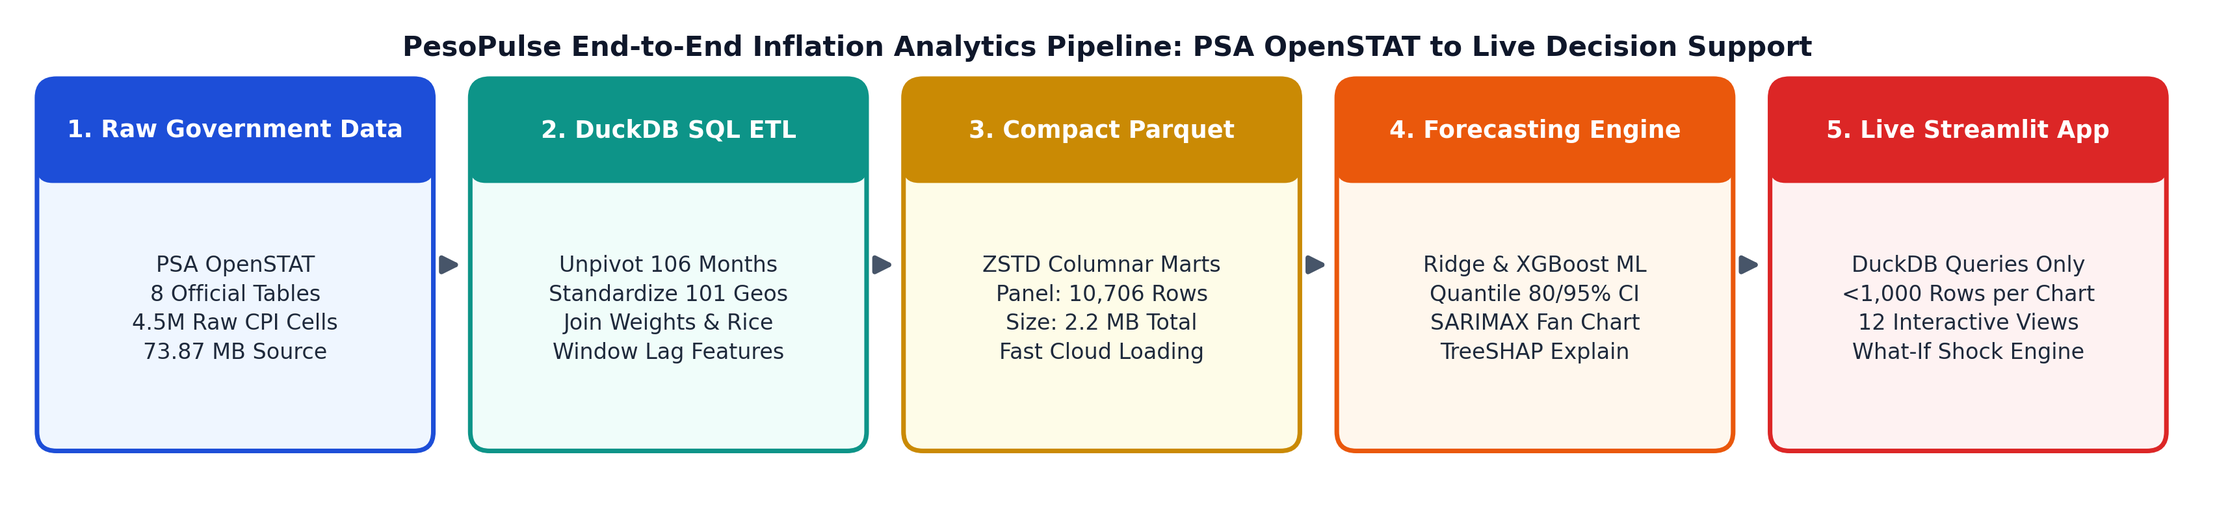
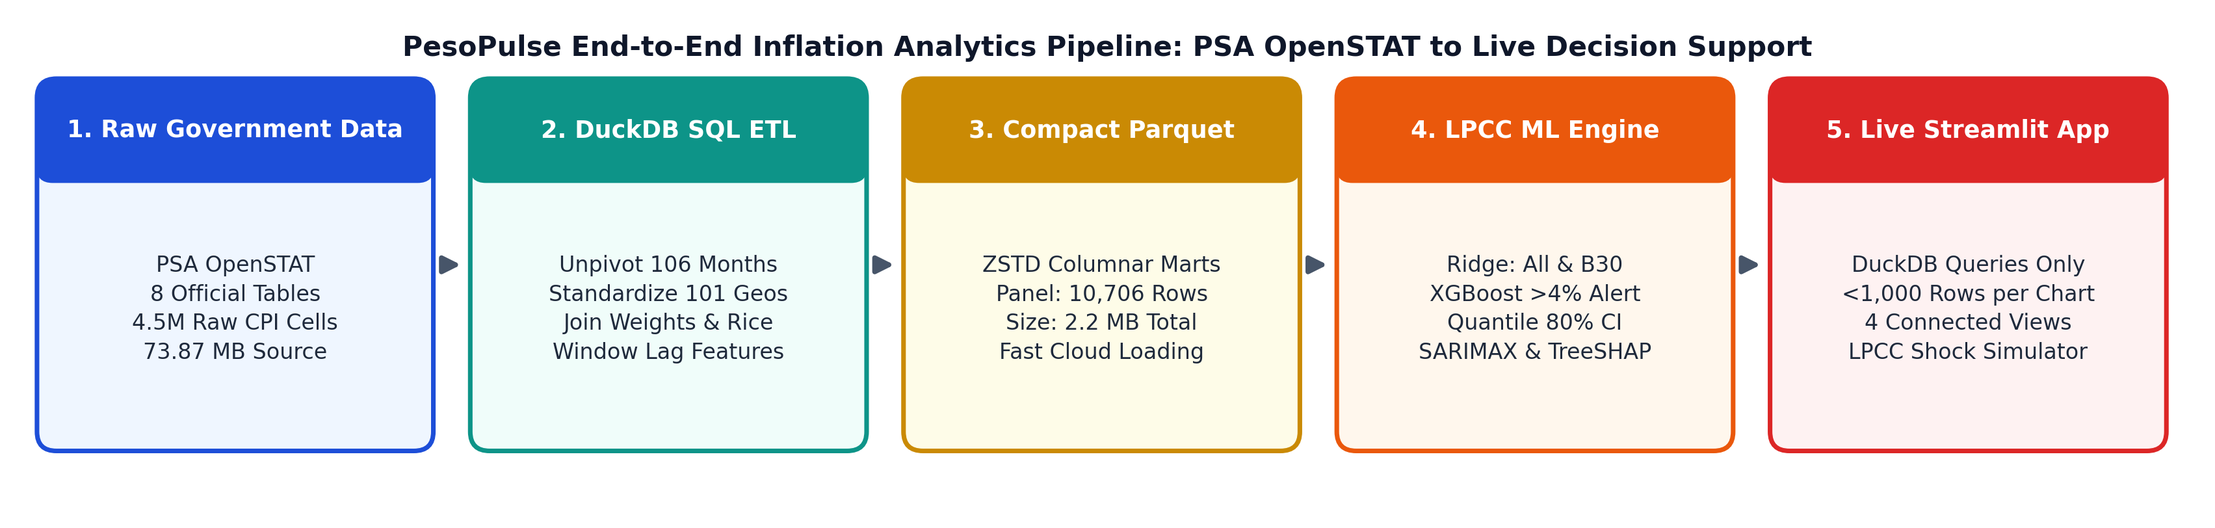
docs(paper): rewrite 6-page IEEE paper builder for DTI/DA LPCC scope

Changed region(s): [[0.6222, 0.4618, 0.7467, 0.6773], [0.84, 0.585, 0.9645, 0.6773], [0.6222, 0.2155, 0.7778, 0.2771]]

diff --git a/src/build_ieee_paper.py b/src/build_ieee_paper.py
@@ -50,8 +50,8 @@ def build_pipeline_diagram(out_path: Path) -> None:
         ("1. Raw Government Data", "PSA OpenSTAT\n8 Official Tables\n4.5M Raw CPI Cells\n73.87 MB Source", "#EFF6FF", "#1D4ED8"),
         ("2. DuckDB SQL ETL", "Unpivot 106 Months\nStandardize 101 Geos\nJoin Weights & Rice\nWindow Lag Features", "#F0FDFA", "#0D9488"),
         ("3. Compact Parquet", "ZSTD Columnar Marts\nPanel: 10,706 Rows\nSize: 2.2 MB Total\nFast Cloud Loading", "#FEFCE8", "#CA8A04"),
-        ("4. Forecasting Engine", "Ridge & XGBoost ML\nQuantile 80/95% CI\nSARIMAX Fan Chart\nTreeSHAP Explain", "#FFF7ED", "#EA580C"),
-        ("5. Live Streamlit App", "DuckDB Queries Only\n<1,000 Rows per Chart\n12 Interactive Views\nWhat-If Shock Engine", "#FEF2F2", "#DC2626"),
+        ("4. LPCC ML Engine", "Ridge: All & B30\nXGBoost >4% Alert\nQuantile 80% CI\nSARIMAX & TreeSHAP", "#FFF7ED", "#EA580C"),
+        ("5. Live Streamlit App", "DuckDB Queries Only\n<1,000 Rows per Chart\n4 Connected Views\nLPCC Shock Simulator", "#FEF2F2", "#DC2626"),
     ]
 
     box_w = 1.92
@@ -583,7 +583,7 @@ def main():
 
     b = IEEEPaperBuilder()
     b.add_ieee_header(
-        title="PesoPulse: Forecasting Philippine Provincial Inflation and Supply-Shock Pass-Through Using DuckDB and Visual Analytics",
+        title="PesoPulse: Forecasting Supply-Shock Pass-Through on Ordinary and Bottom-30% Households for Philippine Local Price Coordinating Councils",
         authors=[
             ("Melbert Marafo", "School of Advanced Studies", "Saint Louis University, Baguio City"),
             ("Jhaynher Felix", "School of Advanced Studies", "Saint Louis University, Baguio City"),
@@ -594,8 +594,8 @@ def main():
     b.switch_columns(2)
 
     b.add_abstract(
-        "A single national inflation number hides very different price realities across Philippine provinces. Families in island and rural areas often face much steeper food costs than shoppers in Metro Manila, and low-income households absorb the hardest hit whenever rice prices jump. We built PesoPulse, an end-to-end visual analytics and forecasting platform using eight official Philippine Statistics Authority datasets covering 101 provinces and highly urbanized cities from January 2018 to October 2026. Our DuckDB pipeline reshapes 4.5 million raw price cells into compact Parquet tables totaling 2.2 MB, feeding a live Streamlit dashboard with twelve interactive charts and a supply-shock simulator. Regional inflation differs significantly at p < 0.001, with Region V averaging 4.39% against 3.41% in NCR. During food spikes above 5%, bottom-30% households face 0.95 percentage points higher inflation than the general population. On 2025 to 2026 holdout data, Ridge Regression delivers the best next-month forecast with 0.93 percentage points MAE and R² of 0.874, while XGBoost flags breaches above the 4.0% central bank ceiling at 92.6% accuracy and 0.976 ROC-AUC.",
-        "Consumer Price Index, DuckDB, Inflation Forecasting, PesoPulse, Philippine Statistics Authority, Streamlit, Visual Analytics.",
+        "When rice, electricity, or diesel prices jump, a single national inflation rate tells local price monitors almost nothing about which towns will suffer most next month. Low-income families in island and rural provinces spend a far larger share of their budgets on staple rice than Metro Manila shoppers, yet municipal councils lack a unified tool to measure that gap. We built PesoPulse, a focused visual analytics and forecasting platform for Local Price Coordinating Councils under the Department of Trade and Industry and the Department of Agriculture. Using eight official Philippine Statistics Authority datasets covering 101 provinces and highly urbanized cities from January 2018 to October 2026, our DuckDB pipeline compresses 4.5 million raw price cells into 2.2 MB of Parquet marts powering four connected Streamlit views. Regional inflation diverges significantly at p < 0.001, and during food surges above 5%, bottom-30% households endure 0.95 percentage points higher inflation than ordinary households. On blind 2025 to 2026 holdout months, dual Ridge Regression models forecast next-month ordinary inflation at 0.93 percentage points MAE and 0.874 R² alongside bottom-30% inflation at 1.14 percentage points MAE and 0.874 R², while XGBoost flags breaches above the 4.0% national price-stability benchmark at 92.6% accuracy and 0.976 ROC-AUC.",
+        "Bottom-30% Households, Consumer Price Index, DuckDB, Local Price Coordinating Councils, PesoPulse, Philippine Statistics Authority, Supply-Shock Simulation.",
     )
 
     # ------------------------------------------------------------------
@@ -604,20 +604,20 @@ def main():
     b.add_section_heading("I. Executive Summary and Public Sector Problem Statement")
 
     b.add_para(
-        "Every month, headlines report one national inflation rate for the Philippines. That single average looks simple, yet it misses how unevenly prices rise from one province to another. Between January 2019 and October 2026, national inflation surged to 8.7% in January 2023, cooled to 0.9% in July 2025, and climbed back to 7.8% in October 2026. By October 2026, one peso from 2018 bought only 0.72 pesos of goods on average across provinces, dropping as low as 0.66 pesos in MIMAROPA, Cagayan Valley, and Caraga compared with 0.75 pesos in NCR."
+        "Every month, news headlines report one national inflation rate for the Philippines. That single figure hides sharp local realities across the archipelago. Between January 2019 and October 2026, national inflation surged to 8.7% in January 2023, cooled to 0.9% in July 2025, and climbed back to 7.8% in October 2026. By October 2026, one peso from 2018 bought only 0.72 pesos of goods on average across provinces, dropping as low as 0.66 pesos in MIMAROPA, Cagayan Valley, and Caraga compared with 0.75 pesos in NCR."
     )
 
     b.add_para(
-        "Three public sector agencies face real operational gaps when monitoring these price shifts. First, regional offices of the Bangko Sentral ng Pilipinas need early warning before local inflation crosses the 4.0% upper policy target [7]. Second, Regional Development Councils under NEDA and DEPDev need to see which provinces suffer persistent cost pressure so budget and logistics support go to the right areas. Third, local price councils under DTI and the Department of Agriculture need to estimate how a sudden jump in rice, electricity, or diesel prices will hit ordinary and low-income households next month."
+        "This gap creates an immediate operational blind spot for Local Price Coordinating Councils under the Department of Trade and Industry, the Department of Agriculture, and local government units. These provincial and city councils meet monthly to inspect retail markets, enforce suggested retail prices, deploy Kadiwa rolling stores, and request National Food Authority rice buffer releases. To act before household budgets break, local councils need to estimate how a sudden jump in rice, electricity, or diesel prices will hit ordinary and bottom-30% low-income households in their specific locality next month, using the official 4.0% national ceiling as a practical price-alert trigger [7]."
     )
 
     b.add_para(
-        "Public CPI files from the Philippine Statistics Authority are large, wide spreadsheets spread across separate portals for headline prices, basket weights, bottom-30% households, wholesale prices, and retail rice quotes. Local planners cannot easily combine these files, run statistical checks, or test price shock scenarios without specialized tools. PesoPulse bridges that gap by turning eight official government tables into one fast, transparent web platform."
+        "Official Consumer Price Index files from the Philippine Statistics Authority live across separate wide spreadsheets for headline prices, local basket weights, bottom-30% households, wholesale indices, and retail rice quotes. Local price officers cannot easily merge millions of cells, verify regional inequality statistically, or stress-test staple and fuel shocks without specialized pipelines. PesoPulse solves this operational bottleneck by unifying eight official government tables into one lightweight, transparent web platform."
     )
 
     b.add_fullwidth_figure(
         FIG_DIR / "fig01_national_headline_vs_core_vs_b30.png",
-        "<b>Fig. 1.</b> Philippine monthly headline, core, and bottom-30% inflation from January 2019 to October 2026 against the 2.0% to 4.0% BSP target band.",
+        "<b>Fig. 1.</b> Philippine monthly ordinary headline, core, and bottom-30% inflation from January 2019 to October 2026 against the 2.0% to 4.0% national price-stability band.",
         width_in=6.55,
     )
 
@@ -628,53 +628,53 @@ def main():
 
     b.add_sub_heading("A. Government Data Sources and Schema Design")
     b.add_para(
-        "All inputs come directly from verified Philippine Statistics Authority OpenSTAT tables [1]. The core file is the monthly Consumer Price Index release with 2018 as base year, covering 120 geographic entries and 354 spending items across 106 valid months from January 2018 to October 2026. That single wide file holds 42,480 rows and 4,502,880 monthly price cells at 73.87 MB. To give the forecasting models real economic context, we paired it with seven companion OpenSTAT tables summarized in Table I."
+        "All records originate from verified Philippine Statistics Authority OpenSTAT tables [1]. The foundation is the monthly Consumer Price Index release with 2018 as base year, spanning 120 geographic entries and 354 spending items across 106 valid months from January 2018 to October 2026. That single wide file contains 42,480 rows and 4,502,880 monthly price cells at 73.87 MB. To capture how staple, energy, and wholesale shocks reach ordinary and low-income families, we joined it with seven companion OpenSTAT tables listed in Table I."
     )
 
     b.add_table(
         label="TABLE I",
         title="Verified PSA OpenSTAT Data Sources Joined in DuckDB",
-        headers=["Source Dataset", "Raw Scale", "Analytical Role"],
+        headers=["Source Dataset", "Raw Scale", "LPCC Analytical Role"],
         rows=[
             ["Monthly CPI 2018=100", "4.50M cells", "Base index across 120 geos"],
             ["Official CPI YoY %", "230,400 rows", "Verified inflation targets"],
-            ["2018 Basket Weights", "42,480 rows", "Local category share %"],
+            ["2018 Basket Weights", "42,480 rows", "Local rice, power & fuel shares"],
+            ["Bottom-30% CPI & Wts", "104,760 rows", "Low-income inflation & weights"],
+            ["Retail Rice Prices", "25,704 rows", "Local rice PHP per kg"],
+            ["Wholesale GWPI", "1,296 rows", "Upstream island cost push"],
             ["Purchasing Power PPP", "12,960 rows", "Real value of 2018 peso"],
             ["National Core CPI", "1,632 rows", "Non-food price baseline"],
-            ["Bottom-30% CPI & Wts", "104,760 rows", "Low-income inflation gap"],
-            ["Wholesale GWPI", "1,296 rows", "Upstream island cost push"],
-            ["Retail Rice Prices", "25,704 rows", "Local rice PHP per kg"],
         ],
-        col_widths=[1.26, 0.82, 1.38],
+        col_widths=[1.26, 0.80, 1.40],
         font_size=7.8,
     )
 
     b.add_sub_heading("B. DuckDB SQL Transformation and Data Hygiene")
     b.add_para(
-        "Loading millions of raw CSV cells straight into Pandas slows down dashboards and wastes memory. Instead, our ETL script runs all heavy work inside DuckDB, an in-memory columnar SQL engine [2]. DuckDB unpivots the 106 monthly columns, converts PSA placeholder dots into proper nulls, and strips national and regional summary rows so only 101 clean local leaf units remain: 100 provinces and highly urbanized cities plus NCR across 18 regions, including Negros Island Region and BARMM."
+        "Pulling millions of raw CSV cells directly into Pandas slows dashboards and risks memory crashes on cloud servers. Our ETL pipeline instead executes all heavy reshaping inside DuckDB, an embeddable columnar SQL engine [2]. DuckDB unpivots 106 monthly columns, converts PSA placeholder dots into nulls, and removes national and regional rollups so exactly 101 local leaf units remain: 100 provinces and highly urbanized cities plus NCR across 18 official regions, including Negros Island Region and BARMM."
     )
 
     b.add_para(
-        "We resolved city naming mismatches between the general CPI and bottom-30% tables, normalized local basket weights to sum to 100% per province, and computed lag features using SQL window functions. Each province-month row carries 55 engineered attributes, including 1-month to 12-month inflation lags, rolling averages, lagged island wholesale growth, and retail rice changes. The cleaned master panel has 10,706 rows, with 9,494 valid year-over-year rows from January 2019 to October 2026. Missing values are transparent and bounded: 1,212 rows lack 2018 year-over-year baselines, 1,313 rows lack October 2026 wholesale lags, and 212 rows lack retail rice quotes in two island units."
+        "We reconciled city naming mismatches between general and bottom-30% CPI files, normalized local basket weights to sum to 100% per locality, and engineered 55 attributes per province-month using SQL window functions. Features cover 1-month to 12-month lags, rolling averages, retail rice growth, and prior-month island wholesale changes. The cleaned master panel holds 10,706 rows, yielding 9,494 valid year-over-year observations from January 2019 to October 2026. Missing values are documented transparently: 1,212 rows lack 2018 year-over-year baselines, 1,313 rows lack October 2026 wholesale lags, and 212 rows lack retail rice quotes in two island units."
     )
 
     b.add_para(
-        "DuckDB exports two ZSTD-compressed Parquet marts totaling just 2.2 MB: a 521 KB provincial ML panel and a 1.65 MB division table. Inside the Streamlit app, every chart queries DuckDB with SQL aggregation so strictly fewer than 1,000 rows ever reach the browser. Fig. 2 maps this five-stage workflow."
+        "DuckDB exports two ZSTD-compressed Parquet marts totaling just 2.2 MB: a 521 KB provincial ML panel and a 1.65 MB division table. Inside Streamlit, every chart runs parameterized DuckDB SQL aggregations so strictly fewer than 1,000 rows ever reach Plotly. Fig. 2 maps this five-stage workflow."
     )
 
     b.add_fullwidth_figure(
         pipe_fig,
-        "<b>Fig. 2.</b> End-to-end ETL, storage, modeling, and live serving architecture compressing 73.87 MB of raw PSA tables into 2.2 MB of Parquet marts.",
+        "<b>Fig. 2.</b> End-to-end ETL, Parquet storage, dual-household modeling, and live Streamlit serving architecture compressing 73.87 MB of raw PSA tables into 2.2 MB.",
         width_in=6.75,
     )
 
-    b.add_sub_heading("C. Chronological Forecasting and Evaluation Setup")
+    b.add_sub_heading("C. Chronological Dual-Household Forecasting Setup")
     b.add_para(
-        "Random train-test splits leak future inflation regimes into training data and create misleadingly high scores. We therefore enforce strict time order. Every machine learning model trains on January 2020 through December 2024 and predicts unseen months from January 2025 through September 2026, totaling 2,121 out-of-time provincial test observations. We also run expanding TimeSeriesSplit cross-validation inside the training window."
+        "Random train-test splits leak future inflation regimes into training data and produce inflated accuracy scores. We enforce strict chronological evaluation: every machine learning model trains on January 2020 through December 2024 and predicts unseen months from January 2025 through September 2026, covering 2,121 out-of-time provincial test rows and 2,020 paired ordinary-and-bottom-30% holdout rows. Expanding TimeSeriesSplit cross-validation tunes models strictly inside the training window."
     )
 
     b.add_para(
-        "Two prediction tasks run side by side. First, a regression task predicts next-month provincial inflation using Ridge Regression, Random Forest, and XGBoost [3], benchmarked against a naive persistence baseline and national SARIMAX [4]. Second, a classification task predicts whether a province will breach the 4.0% BSP target next month using Logistic Regression, Random Forest, and XGBoost. To show forecast risk honestly, Gradient Boosting quantile models compute 80% and 95% prediction bands alongside SARIMAX confidence intervals, and exact TreeSHAP values explain feature impact [5]."
+        "Three operational tasks run in concert. First, Ridge Regression, Random Forest, and XGBoost [3] predict next-month ordinary household inflation against naive persistence and national SARIMAX [4]. Second, a dedicated Bottom-30% Ridge model predicts next-month low-income inflation directly so councils can compare both income groups under identical shocks. Third, Logistic Regression, Random Forest, and XGBoost classify whether a province will breach the 4.0% alert ceiling next month. Quantile Gradient Boosting and SARIMAX supply 80% and 95% uncertainty bands, while TreeSHAP explains feature attribution [5]."
     )
 
     # ------------------------------------------------------------------
@@ -682,36 +682,36 @@ def main():
     # ------------------------------------------------------------------
     b.add_section_heading("III. Visualization Design Rationale and Interaction Architecture")
 
-    b.add_sub_heading("A. Layered Portfolio: Five Basic, Five Advanced, and Predictive Views")
+    b.add_sub_heading("A. Quality-Over-Quantity Portfolio: Four Connected LPCC Views")
     b.add_para(
-        "Our dashboard follows a clear three-step reading path so both executives and technical auditors can navigate it easily. Every plot uses colorblind-safe Viridis and Safe palettes, clear axis units, and interactive hover tooltips [6]."
+        "Rather than crowding one page with redundant plots, PesoPulse organizes strictly essential visuals into four connected views that match how a local price council moves from diagnosis to intervention. Every visual uses colorblind-safe Viridis and Safe palettes, hover tooltips, and a compact Glossary popover for non-technical council members [6]."
     )
 
     b.add_bullets([
-        "<b>Tab 1 Basic EDA:</b> Pairs national headline, core, bottom-30%, and rice trend lines with a pre-aggregated inflation histogram, regional median bars shaded by low-income gap, rice-to-headline scatter analysis, and a driver correlation summary. Statistical test badges display verified ANOVA and paired t-test metrics.",
-        "<b>Tab 2 Five Advanced Views:</b> Displays a 101-unit Philippine bubble map of mean inflation and breach frequency, an interactive sunburst from island to region to spending group, a Sankey transmission flow chart, a six-axis parallel coordinates plot across provinces, and a stacked streamgraph of category drivers over time.",
-        "<b>Tab 3 Forecasting and XAI:</b> Combines the out-of-time model leaderboard, a live SARIMAX fan chart with shaded 80% and 95% confidence bands, a TreeSHAP driver chart, an interactive ROC curve with live confusion matrix counts, and a cross-filtered high-error province trace.",
-        "<b>Tab 4 What-If Simulator:</b> Lets planners pick any province or city and adjust rice, utility, fuel, and wholesale shocks to see live forecast shifts and low-income impact.",
+        "<b>View 1 Household Price Exposure:</b> Delivers five essential basic charts: ordinary, bottom-30%, and rice inflation lines; a pre-aggregated distribution histogram with the 4.0% alert line and Tukey outlier fence; regional median bars shaded by low-income penalty; a provincial retail-rice scatter with OLS fit; and ordinary versus bottom-30% basket-share donuts paired with ANOVA and paired t-test cards.",
+        "<b>View 2 Provincial Hotspots and Flows:</b> Presents five distinct advanced encodings: a 101-locality bubble map of mean inflation and alert frequency, an interactive island-to-category sunburst, a cost-channel Sankey diagram, a five-axis parallel coordinates plot for compound shocks, and a category contribution stream chart.",
+        "<b>View 3 Next-Month Forecasts and Alerts:</b> Combines a compact dual-Ridge and XGBoost holdout strip, a dynamic SARIMAX fan chart with 80% and 95% bands, top-8 human-readable TreeSHAP drivers, an interactive ROC alert curve, and a cross-filtered abrupt shock inspector.",
+        "<b>View 4 LPCC Supply-Shock Simulator:</b> Provides one-click policy presets and three focused sliders for rice, electricity and LPG, and diesel fuel, generating live ordinary and bottom-30% next-month forecasts, cross-province sensitivity bars, and concrete DTI and DA advisories.",
     ])
 
     b.add_fullwidth_figure(
         FIG_DIR / "fig07_advanced_sankey_transmission.png",
-        "<b>Fig. 3.</b> Sankey flow tracing 2022 to 2026 inflation pressure from broad supply channels through household basket divisions into Luzon, Visayas, and Mindanao.",
+        "<b>Fig. 3.</b> Sankey flow tracing 2022 to 2026 cost pressure from rice, food, utility, and fuel channels through household basket divisions into Luzon, Visayas, and Mindanao.",
         width_in=6.20,
     )
 
-    b.add_sub_heading("B. Why Each Advanced Visual Fits the Story")
+    b.add_sub_heading("B. Why Each Advanced Visual Serves Local Price Councils")
     b.add_para(
-        "Each advanced chart answers a question that simple bar charts miss. The geospatial map reveals that inflation hotspots cluster in outer island provinces like Batanes, Dinagat Islands, and Mindoro rather than inside Metro Manila. The Sankey chart in Fig. 3 proves at a glance that food and non-alcoholic beverages drive 48% of recent price pressure at 2.14 percentage points, followed by housing, utilities, and transport at 28% or 1.23 percentage points. Parallel coordinates let analysts spot provinces where food, rice, and utilities spike together, while the streamgraph tracks how food dominated the 2023 surge and returned sharply alongside transport in 2026."
+        "Each advanced encoding answers an operational question that simple tables obscure. The geospatial map reveals that chronic inflation clusters in outer-island supply corridors like Batanes, Dinagat Islands, and Mindoro rather than Metro Manila. The Sankey diagram in Fig. 3 proves that food and rice drive 48% of recent price pressure at 2.14 percentage points, followed by electricity, housing utilities, and transport fuel at 28% or 1.23 percentage points. Parallel coordinates let councils brush axes interactively to find provinces hit by rice, utilities, and low-income gaps simultaneously, while the stream chart tracks how food led the 2023 surge and re-emerged alongside transport in 2026."
     )
 
-    b.add_sub_heading("C. Interactive Controls, Cross-Filtering, and SQL Transparency")
+    b.add_sub_heading("C. Connected Navigation, Cross-Filtering, and SQL Transparency")
     b.add_para(
-        "Global sidebar filters let users slice by island cluster, region, and year range, updating every KPI card and chart instantly through parameterized DuckDB SQL queries. An expandable SQL Audit Trail panel exposes the exact query running under the hood so instructors and auditors can verify the under-1,000-row aggregation rule."
+        "Global sidebar filters slice by island cluster, region, and year range, updating all KPI cards and charts instantly through parameterized DuckDB SQL. At the bottom of each view, a concise synthesis footer links directly to the next analytical stage, while a live DuckDB SQL Audit Trail expander displays every active query and exact row count so evaluators can verify the under-1,000-row rule on demand."
     )
 
     b.add_para(
-        "To connect diagnostics back to raw provincial behavior, Tab 3 includes two synchronization controls. Moving the sidebar breach threshold slider updates the live precision, recall, and confusion matrix counts on the 2025 to 2026 holdout set. Below the ROC chart, a High-Error Holdout Inspector ranks the ten largest prediction misses and lets the user pick any province to plot its observed versus predicted curve with high-error months flagged in red. Meanwhile, a forecast horizon slider dynamically retrains SARIMAX from 3 to 12 months ahead for any chosen region."
+        "View 3 connects model diagnostics directly to local council action. Adjusting the sidebar alert cutoff updates true catches, false alarms, precision, and recall live on the ROC curve. Below the ROC chart, the Abrupt Supply-Shock Misses inspector highlights holdout months where sudden shocks caused 2.0 percentage points or more of error and provides a one-click button that sends that exact province straight into the View 4 simulator."
     )
 
     # ------------------------------------------------------------------
@@ -721,22 +721,22 @@ def main():
 
     b.add_sub_heading("A. Provincial Price Gaps and Low-Income Vulnerability")
     b.add_para(
-        "Statistical tests across all 9,494 provincial observations confirm that inflation is not uniform nationwide. As illustrated in Fig. 4, monthly headline inflation differs significantly across 18 regions with one-way ANOVA F = 5.53 and p < 0.001, and island groups also diverge with F = 8.22 and p < 0.001. Region V Bicol averaged 4.39% and broke the 4.0% BSP target 53.6% of the time. MIMAROPA followed at 4.30% with 52.5% breach frequency. At the other end, NCR averaged 3.41% and breached 4.0% only 29.8% of the time. Remote provinces face the steepest averages: Batanes reached 5.25%, Dinagat Islands hit 5.07%, and Occidental Mindoro exceeded 4.0% in 64.9% of all months."
+        "Statistical tests across all 9,494 provincial observations prove that local councils cannot rely on national inflation averages. As shown in Fig. 4, monthly inflation differs significantly across all 18 regions with one-way ANOVA F = 5.53 and p < 0.001, and across island groups with F = 8.22 and p < 0.001. Region V Bicol averaged 4.39% and crossed the 4.0% alert ceiling 53.6% of the time, followed by MIMAROPA at 4.30% with 52.5% alert frequency. By contrast, NCR averaged 3.41% with only 29.8% alerts. Outer-island provinces run hottest: Batanes averaged 5.25%, Dinagat Islands reached 5.07%, and Occidental Mindoro exceeded 4.0% in 64.9% of all months."
     )
 
     b.add_para(
-        "More importantly, food inflation hurts poorer families much faster than average shoppers. Across the full period, bottom-30% households experienced 0.16 percentage points higher inflation than all-income households with paired t = 11.83 and p < 0.001. During months when food inflation exceeded 5%, that gap jumped nearly sixfold to 0.95 percentage points with paired t = 43.52. The reason is simple basket math. In City of Baguio, rice accounts for 4.50% of the general household basket, but 12.15% of the bottom-30% basket. In October 2026, when Baguio rice inflation hit 16.5%, local low-income inflation climbed to 9.5% against 9.3% overall. Upstream links also hold clearly: lagged wholesale inflation correlates at r = 0.43 with next-month provincial CPI, and local retail rice growth correlates at r = 0.45."
+        "Crucially for DTI and DA price councils, staple food spikes are sharply regressive. Across all months, bottom-30% households experienced 0.16 percentage points higher inflation than ordinary households with paired t = 11.83 and p < 0.001. When food inflation exceeded 5%, that gap jumped nearly sixfold to 0.95 percentage points with paired t = 43.52. Basket weights explain why: in City of Baguio, rice accounts for 4.50% of the ordinary basket but 12.15% of the bottom-30% basket; in Camarines Sur, rice climbs from 12.57% ordinary to 21.07% for low-income families. Upstream links also hold clearly, with local retail rice growth correlating at r = 0.45 and lagged island wholesale inflation at r = 0.43 with provincial headline CPI."
     )
 
     b.add_fullwidth_figure(
         FIG_DIR / "fig03_regional_anova_boxplot.png",
-        "<b>Fig. 4.</b> Distribution of monthly provincial headline inflation across all 18 Philippine regions from 2019 to 2026 against the 2.0% and 4.0% BSP target lines.",
+        "<b>Fig. 4.</b> Distribution of monthly provincial headline inflation across all 18 Philippine regions from 2019 to 2026 against the 2.0% and 4.0% national price-stability lines.",
         width_in=6.30,
     )
 
-    b.add_sub_heading("B. Honest Model Benchmarks and Why Linear Shrinkage Wins")
+    b.add_sub_heading("B. Honest Model Benchmarks and Dual-Household Accuracy")
     b.add_para(
-        "Table II summarizes out-of-time accuracy across the turbulent 2025 to 2026 holdout period. For next-month numerical inflation, Ridge Regression achieves the lowest error at 0.93 percentage points MAE and R² of 0.874, outperforming Random Forest at 1.05, XGBoost at 1.16, and national SARIMAX at 2.20. Tree ensembles scored slightly better inside 2020 to 2024 cross-validation, yet struggled out of time because 2025 dropped to 0.9% before 2026 surged back to 7.8%. Tree leaves clip near past training ranges, whereas Ridge extrapolates smoothly across turning points. For the same reason, quantile 80% and 95% bands in Fig. 5 achieved 62.9% and 75.5% empirical coverage during the rapid 2026 jump, highlighting why fan charts must communicate widening risk clearly."
+        "Table II reports blind 2025 to 2026 holdout performance. For next-month ordinary inflation, Ridge Regression leads at 0.93 percentage points MAE and R² of 0.874, beating Random Forest at 1.05, XGBoost at 1.16, and national SARIMAX at 2.20. Our dedicated Bottom-30% Ridge model achieves 1.14 percentage points MAE and R² of 0.874 across 2,020 paired low-income holdout observations despite higher food volatility. Tree ensembles scored slightly better inside 2020 to 2024 cross-validation yet struggled out of time because tree leaves clip near past training bounds when inflation swings from 0.9% to 7.8%, whereas linear shrinkage extrapolates smoothly. For the same reason, quantile 80% and 95% bands in Fig. 5 reached 62.9% and 75.5% empirical coverage during the rapid 2026 rebound, reinforcing why uncertainty bands are essential."
     )
 
     b.add_table(
@@ -744,25 +744,26 @@ def main():
         title="Out-of-Time 2025 to 2026 Holdout Model Benchmarks",
         headers=["Model and Task", "MAE / Acc", "RMSE / F1", "R² / AUC"],
         rows=[
-            ("BANNER", "Next-Month YoY Regression"),
-            ["<b>Ridge Regression</b>", "<b>0.93 pp</b>", "<b>1.30 pp</b>", "<b>0.874</b>"],
+            ("BANNER", "Next-Month Household YoY Regression"),
+            ["<b>Ordinary Ridge Regression</b>", "<b>0.93 pp</b>", "<b>1.30 pp</b>", "<b>0.874</b>"],
+            ["<b>Bottom-30% Ridge Regression</b>", "<b>1.14 pp</b>", "<b>1.62 pp</b>", "<b>0.874</b>"],
             ["Persistence Baseline", "0.93 pp", "1.34 pp", "0.867"],
             ["Random Forest Regressor", "1.05 pp", "1.42 pp", "0.849"],
             ["XGBoost Regressor", "1.16 pp", "1.54 pp", "0.824"],
             ["National SARIMAX", "2.20 pp", "2.56 pp", "N/A"],
-            ("BANNER", "BSP >4.0% Breach Classification"),
+            ("BANNER", ">4.0% Price-Alert Classification"),
             ["<b>XGBoost Classifier</b>", "<b>92.6%</b>", "<b>0.897</b>", "<b>0.976</b>"],
             ["Logistic Regression", "92.4%", "0.893", "0.980"],
             ["Random Forest Classifier", "92.3%", "0.892", "0.965"],
         ],
-        col_widths=[1.54, 0.64, 0.64, 0.64],
+        col_widths=[1.56, 0.63, 0.63, 0.64],
         right_cols={1, 2, 3},
-        font_size=7.7,
+        font_size=7.6,
         keep_together=True,
     )
 
     b.add_para(
-        "We also report an honest forecasting insight shown in Fig. 6. Because year-over-year inflation overlaps eleven of twelve months with the previous month, current headline inflation dominates TreeSHAP at 2.50 percentage points mean impact, followed by three-month momentum, core inflation, seasonality, wholesale lag, and fuel costs. As a result, Ridge beats naive persistence only narrowly on one-month point error. The real decision value therefore lies in three operational outputs: the 92.6% accurate early-warning breach classifier with 0.976 ROC-AUC, the 6-month SARIMAX outlook projecting national inflation near 8.0% through February 2027 before easing toward 3.4% by April 2027, and the basket-weighted shock simulator."
+        "Fig. 6 highlights an honest forecasting boundary. Because year-over-year inflation overlaps eleven of twelve months with the prior month, current headline inflation leads TreeSHAP attribution at 2.50 percentage points mean impact, followed by three-month momentum, core baseline, seasonal harvest cycles, wholesale lag, and diesel fuel. Ridge therefore improves only narrowly over naive persistence on quiet months. The operational edge for local price councils comes from combining three live tools: the 92.6% accurate early-alert classifier at 0.976 ROC-AUC, the multi-month SARIMAX fan chart, and the dual-household supply-shock simulator."
     )
 
     b.add_fullwidth_figure(
@@ -773,38 +774,37 @@ def main():
 
     b.add_fullwidth_figure(
         FIG_DIR / "fig12_xai_treeshap_and_roc_breach.png",
-        "<b>Fig. 6.</b> Left: Exact TreeSHAP drivers for next-month provincial inflation. Right: Holdout ROC curves for provincial breaches above the 4.0% BSP target.",
+        "<b>Fig. 6.</b> Left: Exact TreeSHAP feature attribution for next-month provincial inflation. Right: Holdout ROC curves for flagging provincial breaches above the 4.0% alert ceiling.",
         width_in=6.45,
     )
 
-    b.add_sub_heading("C. Live Supply-Shock Simulation and Agency Action Plan")
+    b.add_sub_heading("C. Live Supply-Shock Simulation and LPCC Action Plan")
     b.add_para(
-        "Table III shows how the live Tab 4 simulator responds when we inject the exact same supply shock starting from October 2026 data: +8.0 percentage points in rice, +5.0 in electricity and LPG, +6.0 in diesel and transport fuel, and +3.0 in wholesale spillover. Even with identical shock inputs, Camarines Sur absorbs nearly double the direct basket impact of Baguio City because rice carries a 12.57% share in Camarines Sur versus 4.50% in Baguio. Meanwhile, Baguio low-income families absorb an extra 0.61 percentage points from rice alone compared with general Baguio households, proving that a single national relief formula misses local needs."
+        "Table III shows how the live View 4 simulator responds to an identical supply shock starting from October 2026 readings: +8.0 percentage points in rice, +5.0 in electricity and LPG, and +6.0 in diesel fuel. Because rice carries 12.57% of the ordinary basket and 21.07% of the bottom-30% basket in Camarines Sur compared with 4.50% and 12.15% in City of Baguio, Camarines Sur absorbs nearly double the direct basket shift at +1.45 percentage points ordinary and +2.13 percentage points for low-income families. Under the same shock, Camarines Sur bottom-30% inflation reaches 13.28% next month against 10.24% in Baguio, proving why one national relief formula fails local communities."
     )
 
     b.add_table(
         label="TABLE III",
-        title="Simulated Nov 2026 Shock: +8pp Rice, +5pp Util, +6pp Fuel, +3pp GWPI",
-        headers=["Area", "Oct Obs", "Base", "Shock", "Direct", "B30 Extra"],
+        title="Simulated Nov 2026 Shock: +8pp Rice, +5pp Power/LPG, +6pp Diesel",
+        headers=["Locality", "Ord Base", "Ord Shock", "B30 Shock", "Ord Hit", "B30 Hit"],
         rows=[
-            ["City of Baguio", "9.30%", "8.95%", "9.62%", "+0.77 pp", "+0.61 pp"],
-            ["Camarines Sur", "10.10%", "9.70%", "10.93%", "+1.45 pp", "+0.68 pp"],
-            ["NCR", "5.90%", "6.05%", "6.80%", "+0.87 pp", "+0.41 pp"],
+            ["City of Baguio", "8.95%", "9.63%", "10.24%", "+0.77 pp", "+1.38 pp"],
+            ["Camarines Sur", "9.70%", "10.94%", "13.28%", "+1.45 pp", "+2.13 pp"],
         ],
-        col_widths=[1.02, 0.48, 0.45, 0.48, 0.51, 0.52],
+        col_widths=[0.96, 0.50, 0.52, 0.52, 0.48, 0.48],
         right_cols={1, 2, 3, 4, 5},
         font_size=7.6,
         keep_together=True,
     )
 
     b.add_para(
-        "These empirical patterns translate into three straightforward policy actions for government stakeholders:"
+        "These findings support three immediate operational protocols for DTI and DA Local Price Coordinating Councils:"
     )
 
     b.add_bullets([
-        "<b>Targeted Rice and Food Relief for DA and DTI:</b> Prioritize rice buffer deployment and Kadiwa rolling stores in high-weight, high-breach provinces such as Bicol, MIMAROPA, and island areas whenever local retail rice inflation crosses 8% rather than waiting for national averages to spike.",
-        "<b>Regional Early-Warning Thresholds for BSP:</b> Use the tunable breach classifier in Tab 3 to trigger regional monitoring alerts when predicted probability crosses 0.45, capturing 85.6% of upcoming provincial target breaches with 94.2% precision.",
-        "<b>Low-Income Cost Protection for NEDA and LGUs:</b> Anchor local wage reviews and targeted household subsidies to bottom-30% CPI baskets during food surges, since low-income urban families in cities like Baguio face nearly triple the rice weight of all-income indices.",
+        "<b>Weight-Prioritized Kadiwa and NFA Buffer Deployment:</b> Dispatch Kadiwa rolling stores and NFA buffer rice first to high-rice-weight, high-alert provinces such as Bicol, MIMAROPA, and outer islands whenever local retail rice inflation crosses 8% rather than waiting for national averages to climb.",
+        "<b>Proactive Monthly LPCC Alert Triggers:</b> Convene emergency council SRP inspections whenever the View 3 breach probability exceeds 0.45, capturing 85.6% of upcoming provincial surges above 4.0% at 94.2% precision.",
+        "<b>Bottom-30% Anchored Relief Sizing:</b> Calibrate municipal food vouchers and public transport subsidies using the View 4 bottom-30% Ridge forecast rather than ordinary CPI, since low-income urban families in cities like Baguio face nearly triple the rice budget exposure of average shoppers.",
     ])
 
     # ------------------------------------------------------------------
@@ -813,15 +813,15 @@ def main():
     b.add_section_heading("V. Conclusion and Limitations")
 
     b.add_para(
-        "PesoPulse demonstrates how open Philippine government statistics can move from static spreadsheets into a fast, transparent decision-support tool. By processing 4.5 million PSA price cells inside DuckDB and serving compact Parquet marts through Streamlit, our platform delivers five basic views, five advanced visual encodings, honest out-of-time forecasts, explainable drivers, and real-time supply-shock simulation at minimal compute cost."
+        "PesoPulse turns 4.5 million raw Philippine Statistics Authority price cells into a focused, transparent decision-support platform for DTI and Department of Agriculture Local Price Coordinating Councils. By running columnar SQL inside DuckDB and serving 2.2 MB of Parquet marts through Streamlit, the system delivers five essential basic views, five advanced visual encodings, dual ordinary and bottom-30% next-month forecasts, explainable drivers, and real-time rice, electricity, and diesel shock simulation."
     )
 
     b.add_para(
-        "Two practical limitations guide future upgrades. First, PSA OpenSTAT does not publish province-level monthly rainfall, typhoon disruption logs, or port freight rates, which explain sudden spikes in island provinces like Batanes and Mindoro. Second, one-month year-over-year CPI moves closely with recent history, so future work should add month-on-month food price forecasting and direct PAGASA weather feeds to extend early warning from one month to a full quarter."
+        "Two practical limitations define clear next steps. First, PSA OpenSTAT does not publish province-level monthly rainfall, typhoon track logs, or inter-island port freight rates, which trigger sudden single-month jumps in island markets like Batanes and Mindoro. Second, year-over-year CPI moves closely with prior-year base effects, so integrating month-on-month retail food feeds from DA Bantay Presyo alongside PAGASA weather advisories would extend early warning from one month to a full quarter."
     )
 
     b.add_para(
-        "The full codebase, reproducible DuckDB scripts, compact Parquet marts, and Streamlit application are maintained under version control with distributed commits across all three team members covering data engineering, visual analytics, and predictive deployment. Because the runtime files weigh only 2.2 MB, the platform deploys cleanly to Streamlit Community Cloud without external database servers."
+        "The full codebase, reproducible DuckDB ETL scripts, compact Parquet marts, and Streamlit application are maintained on GitHub under version control for distributed team contributions and direct deployment to Streamlit Community Cloud without external database servers."
     )
 
     # ------------------------------------------------------------------
